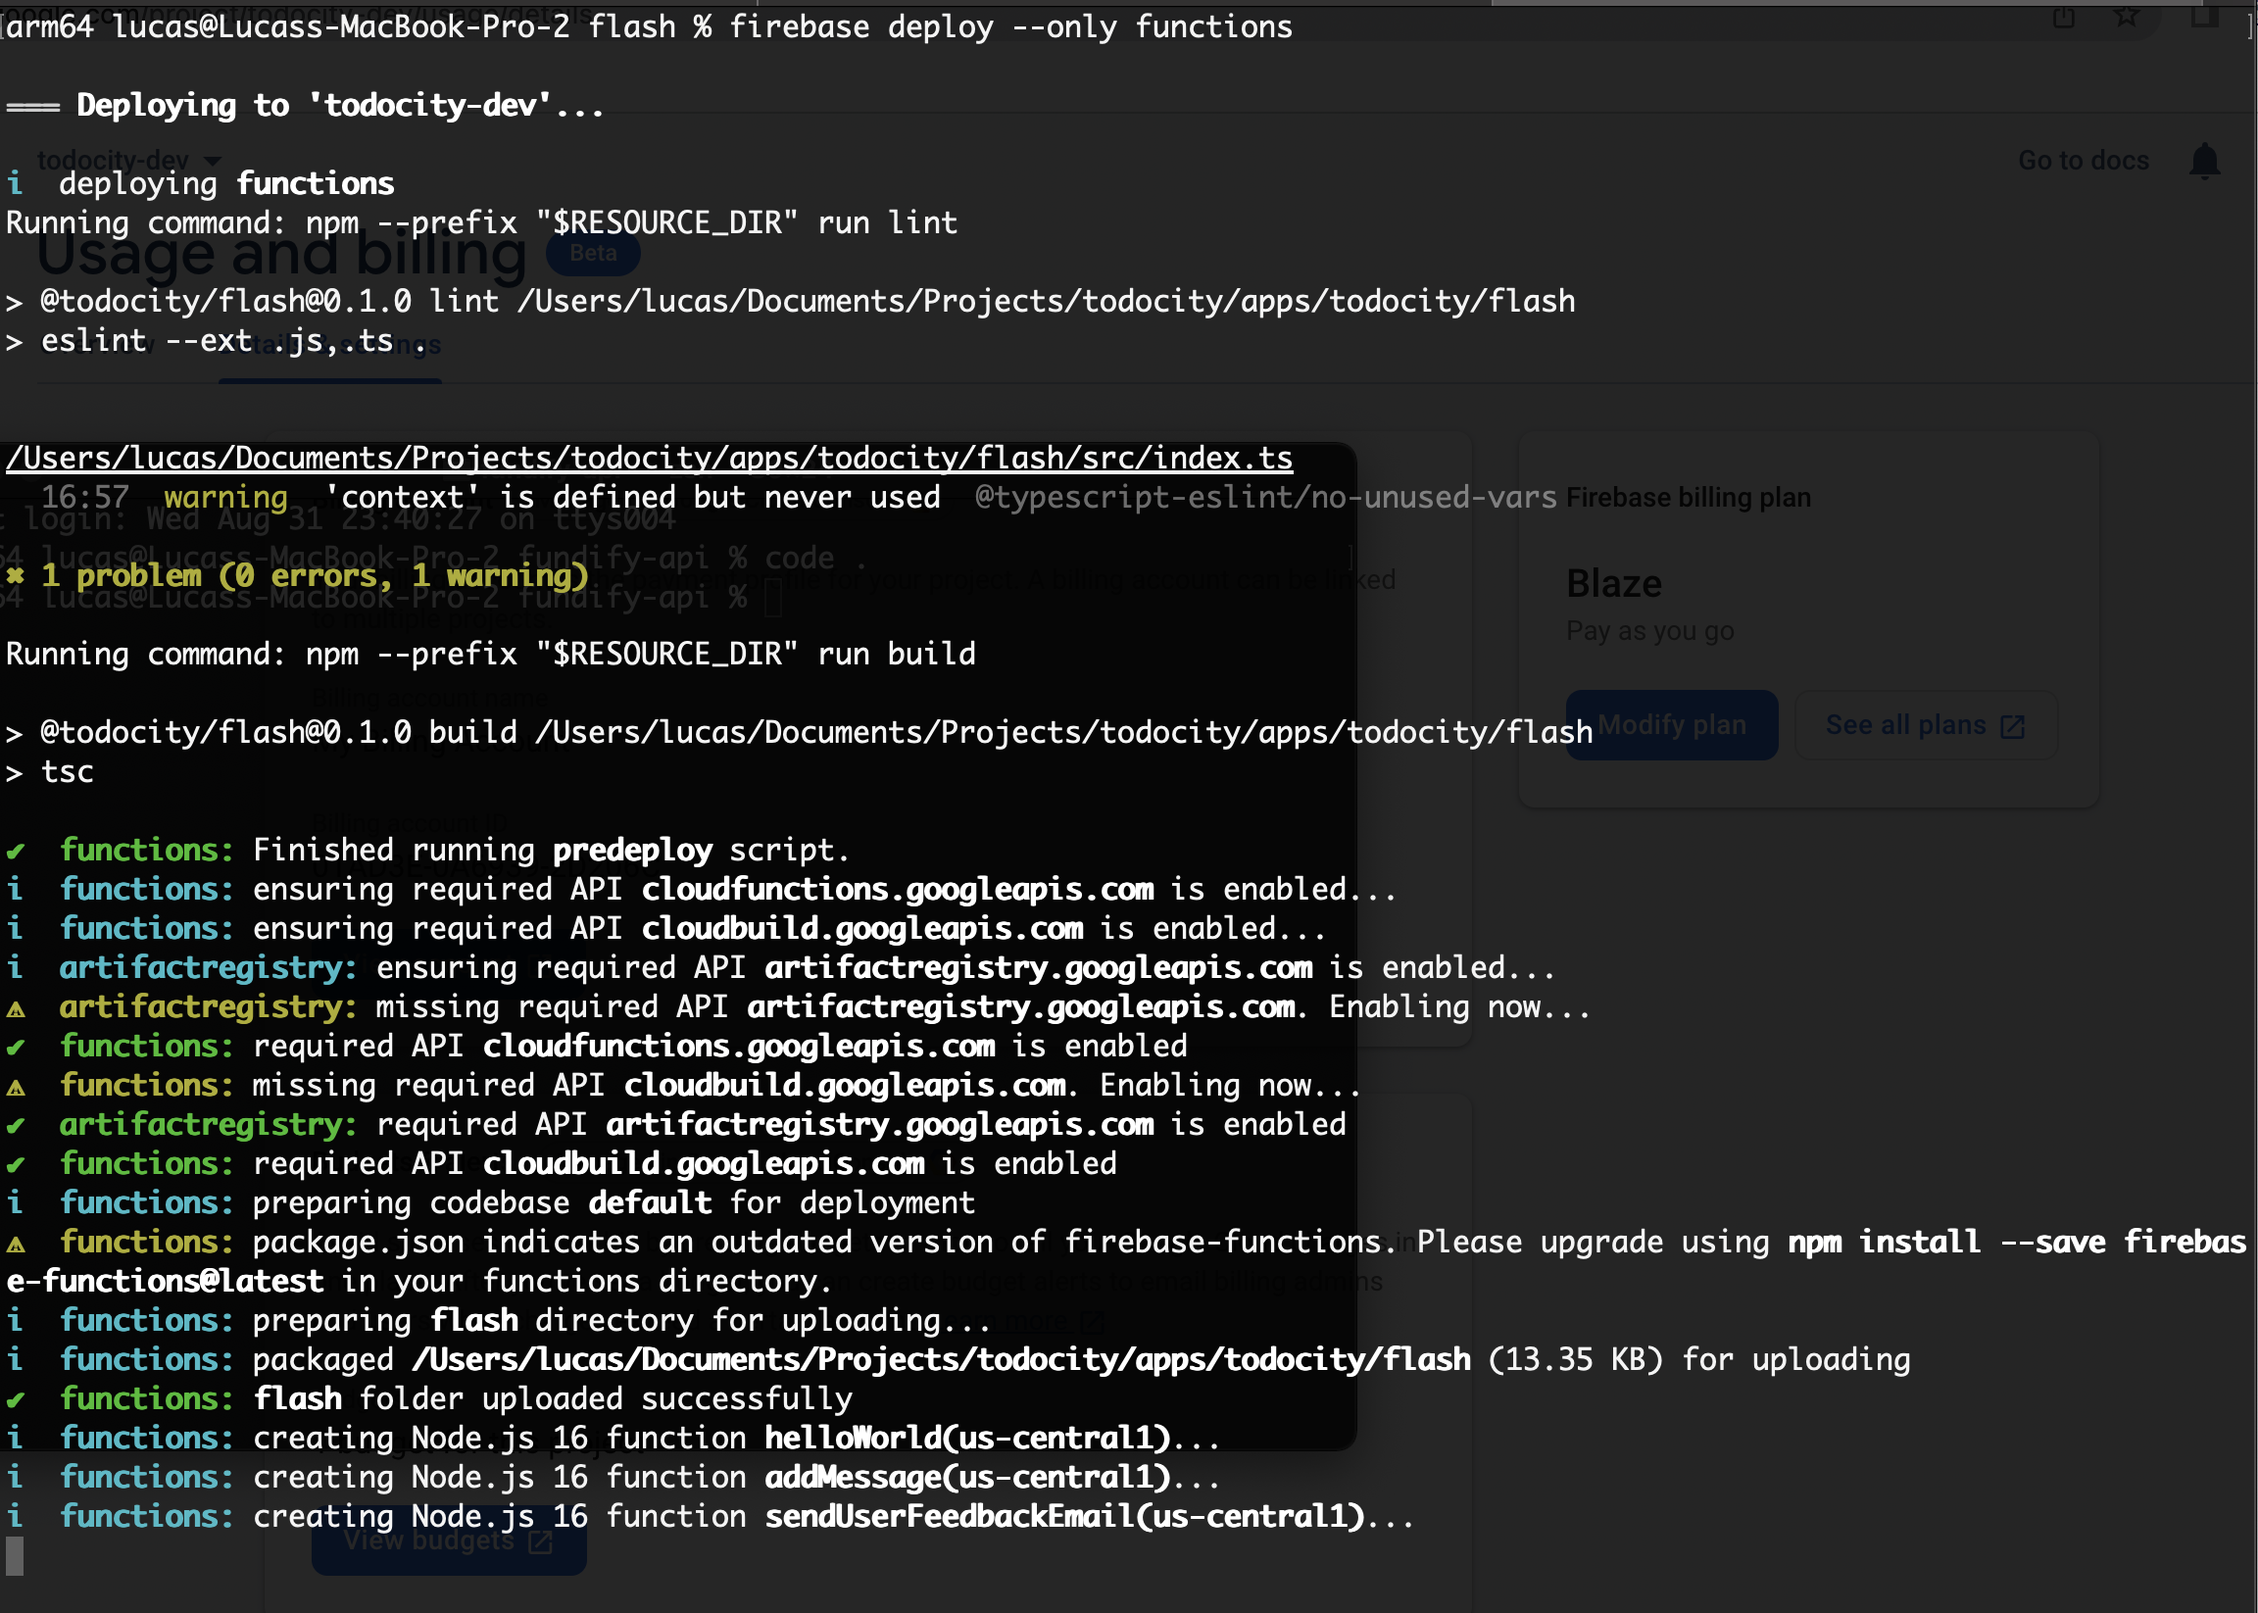
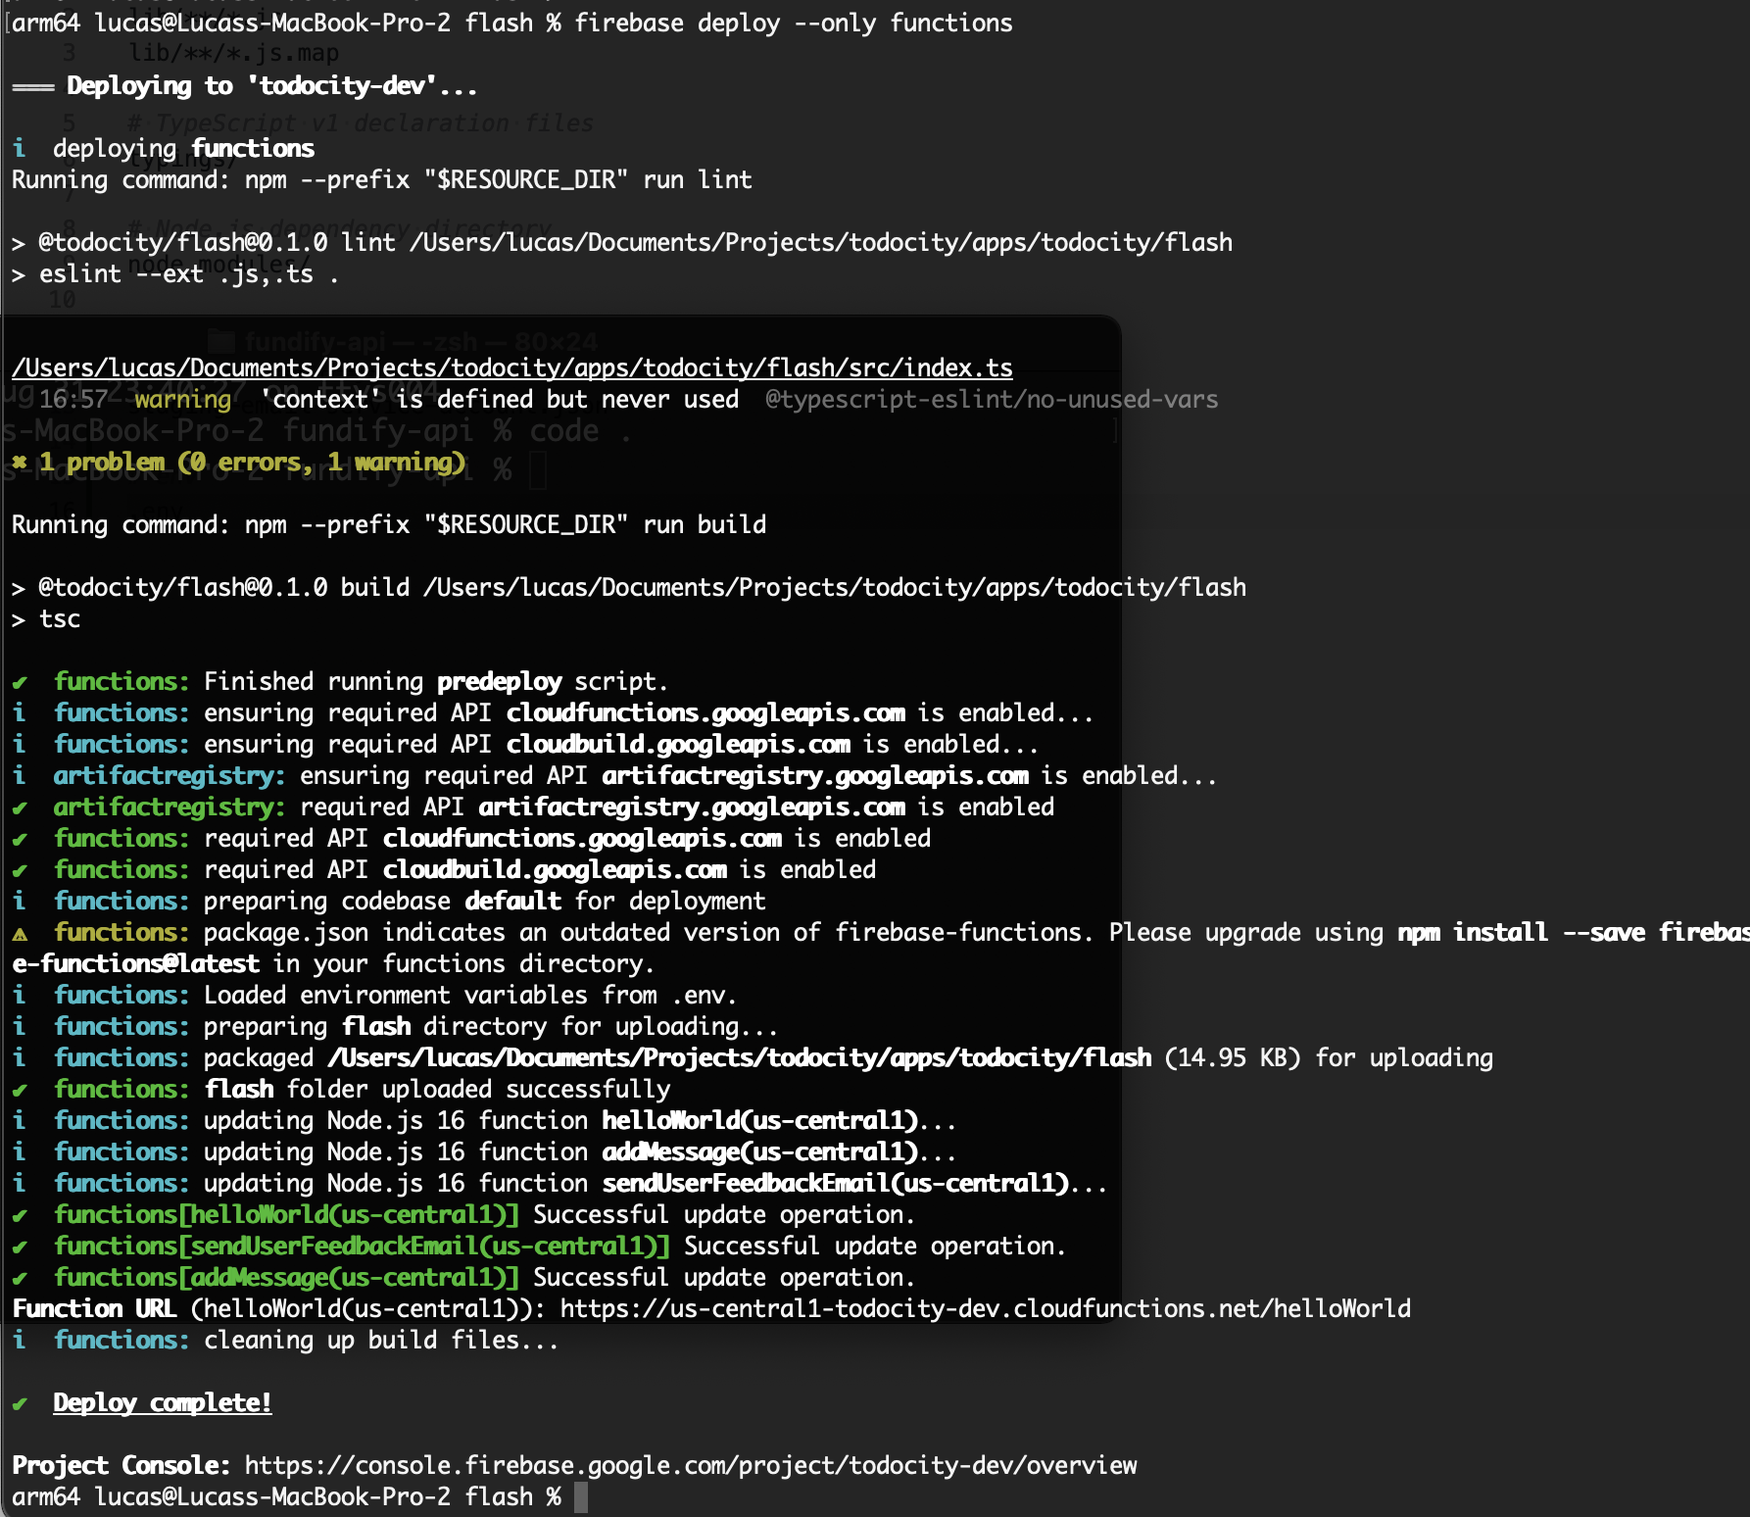
update docs

diff --git a/docs/functions.md b/docs/functions.md
@@ -27,7 +27,9 @@ MAKE SURE THE EMULATOR IS RUNNING
 ```
 
 You'll get a feedback response that looks something like the following:
-<image src>
+![Deploy Example](/docs/images/functions-deploy.png)
+
+Gotta make sure the `Loaded environment variables from .env` is shown
 
 ## Troubleshooting
 
